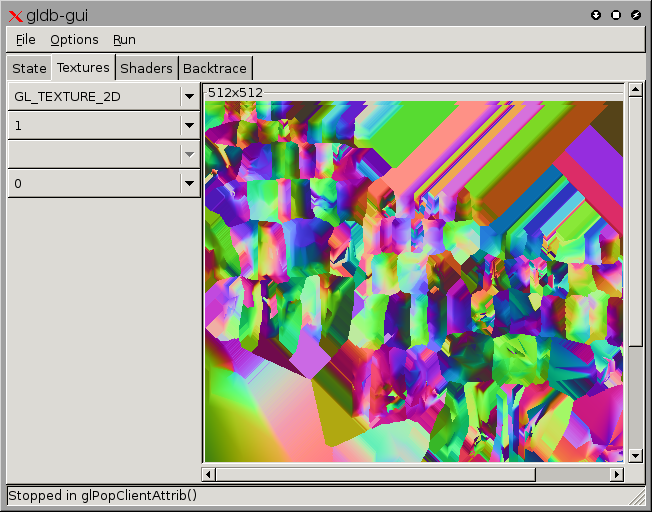
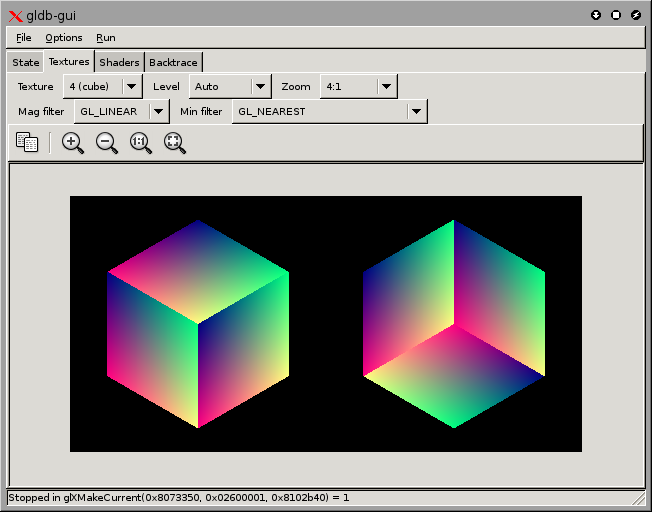
Tweaks to finalise the 0.0.20060101 release.

diff --git a/html/news.html b/html/news.html
@@ -12,6 +12,24 @@
         </span>
     </div>
     <h1>BuGLe News</h1>
+    <h2>Improved texture viewer and ATI driver support (1/1/2006) </h2>
+    <p>
+    I've worked on the texture viewer in the debugger and made it a lot 
+    better. It is not yet complete (in particular 3D textures cannot be
+    viewed, and luminance textures show up red), but should be an improvement
+    on the previous release.
+    </p>
+    <p>
+    I'd be interested to hear what features people would be interested in
+    seeing in the texture viewer, and in fact gldb in general.
+    </p>
+    <p>I also spent a few days over Christmas with only my laptop, which has
+    an ATI graphics card. I found some surprising bugs in the ATI driver
+    (for example, during <tt>glDrawArrays</tt> the colour set with
+    <tt>glColor3f</tt> is simply ignored), but also some bugs in my own
+    code that only showed up with the ATI drivers. So those of you with
+    ATI cards should now get a much better experience from BuGLe.
+    </p>
     <h2>New release (0.0.20051112) adds preliminary GUI debugger (12/11/2005)</h2>
     <p>
     The promised GUI debugger is now ready in a preliminary form (meaning that

diff --git a/html/index.html b/html/index.html
@@ -53,7 +53,7 @@
             readline</a> is recommended for history editing in <kbd>gldb</kbd></li>
         <li><a href="http://www.gtk.org/">GTK+</a> is required for <kbd>gldb-gui</kbd></li>
         <li><a href="http://gtkglext.sourceforge.net/">GtkGLExt</a> is highly
-        recommended for <kbd>gldb-gui</kbd> (with it, the texture display will
+        recommended for <kbd>gldb-gui</kbd> (without it, the texture display will
         not work)</li>
     </ul>
 

diff --git a/gldb/gldb-gui.c b/gldb/gldb-gui.c
@@ -19,11 +19,13 @@
 #if HAVE_CONFIG_H
 # include <config.h>
 #endif
-#include "glee/GLee.h"
-/* FIXME: Not sure if this the correct definition of GETTEXT_PACKAGE... */
 #ifndef GETTEXT_PACKAGE
 # define GETTEXT_PACKAGE "gtk20"
 #endif
+#if HAVE_GTKGLEXT
+# include "glee/GLee.h"
+#endif
+/* FIXME: Not sure if this the correct definition of GETTEXT_PACKAGE... */
 #include <gtk/gtk.h>
 #include <glib.h>
 #include <glib/gi18n-lib.h>
@@ -68,6 +70,7 @@ enum
     COLUMN_BREAKPOINTS_FUNCTION
 };
 
+#ifdef HAVE_GTKGLEXT
 enum
 {
     COLUMN_TEXTURE_ID_ID,
@@ -96,6 +99,7 @@ enum
     COLUMN_TEXTURE_FILTER_TRUE,
     COLUMN_TEXTURE_FILTER_NON_MIP
 };
+#endif
 
 struct GldbWindow;
 
@@ -177,8 +181,9 @@ typedef struct
     GtkWidget *dialog, *list;
 } GldbBreakpointsDialog;
 
-#define TEXTURE_CALLBACK_FLAG_FIRST 1
-#define TEXTURE_CALLBACK_FLAG_LAST 2
+#if HAVE_GTKGLEXT
+# define TEXTURE_CALLBACK_FLAG_FIRST 1
+# define TEXTURE_CALLBACK_FLAG_LAST 2
 
 typedef struct
 {
@@ -188,8 +193,11 @@ typedef struct
     guint32 flags;
 } texture_callback_data;
 
-static GtkListStore *function_names;
 static GtkTreeModel *texture_mag_filters, *texture_min_filters;
+
+#endif
+
+static GtkListStore *function_names;
 static guint32 seq = 0;
 
 static void set_response_handler(GldbWindow *context, guint32 id,
@@ -2402,6 +2410,7 @@ static void build_function_names(void)
     }
 }
 
+#if HAVE_GTKGLEXT
 static GtkListStore *build_texture_filters(gboolean min_filter)
 {
     GtkListStore *store;
@@ -2436,6 +2445,7 @@ static GtkListStore *build_texture_filters(gboolean min_filter)
     }
     return store;
 }
+#endif
 
 int main(int argc, char **argv)
 {
@@ -2444,13 +2454,13 @@ int main(int argc, char **argv)
     gtk_init(&argc, &argv);
 #if HAVE_GTKGLEXT
     gtk_gl_init(&argc, &argv);
+    texture_mag_filters = GTK_TREE_MODEL(build_texture_filters(FALSE));
+    texture_min_filters = GTK_TREE_MODEL(build_texture_filters(TRUE));
 #endif
     gldb_initialise(argc, argv);
     bugle_initialise_hashing();
 
     build_function_names();
-    texture_mag_filters = GTK_TREE_MODEL(build_texture_filters(FALSE));
-    texture_min_filters = GTK_TREE_MODEL(build_texture_filters(TRUE));
     memset(&context, 0, sizeof(context));
     build_main_window(&context);
 
@@ -2458,8 +2468,10 @@ int main(int argc, char **argv)
 
     gldb_shutdown();
     g_object_unref(G_OBJECT(function_names));
+#if HAVE_GTKGLEXT
     g_object_unref(G_OBJECT(texture_mag_filters));
     g_object_unref(G_OBJECT(texture_min_filters));
+#endif
     g_object_unref(G_OBJECT(context.breakpoints_store));
     return 0;
 }

diff --git a/gldb/gldb.c b/gldb/gldb.c
@@ -101,6 +101,15 @@ static void sigint_handler(int sig)
     write(int_pipes[1], &buf, 1);
 }
 
+#if !HAVE_READLINE
+static void chop(char *s)
+{
+    size_t len = strlen(s);
+    while (len && isspace(s[len - 1]))
+        s[--len] = '\0';
+}
+#endif
+
 /* Returns true on quit, false otherwise */
 static bool handle_commands(void)
 {
@@ -400,15 +409,6 @@ static void main_loop(void)
         }
     }
 }
-
-#if !HAVE_READLINE
-static void chop(char *s)
-{
-    size_t len = strlen(s);
-    while (len && isspace(s[len - 1]))
-        s[--len] = '\0';
-}
-#endif
 
 static void make_indent(int indent, FILE *out)
 {

diff --git a/filters/debugger.c b/filters/debugger.c
@@ -19,7 +19,7 @@
 #if HAVE_CONFIG_H
 # include <config.h>
 #endif
-#define _XOPEN_SOURCE
+#define _XOPEN_SOURCE 500
 #include "src/filters.h"
 #include "src/utils.h"
 #include "src/glutils.h"
@@ -39,6 +39,9 @@
 #include <sys/types.h>
 #include <unistd.h>
 #include <errno.h>
+#if HAVE_SYS_SELECT_H
+# include <sys/select.h>
+#endif
 
 static int in_pipe = -1, out_pipe = -1;
 static bool break_on[NUMBER_OF_FUNCTIONS];
